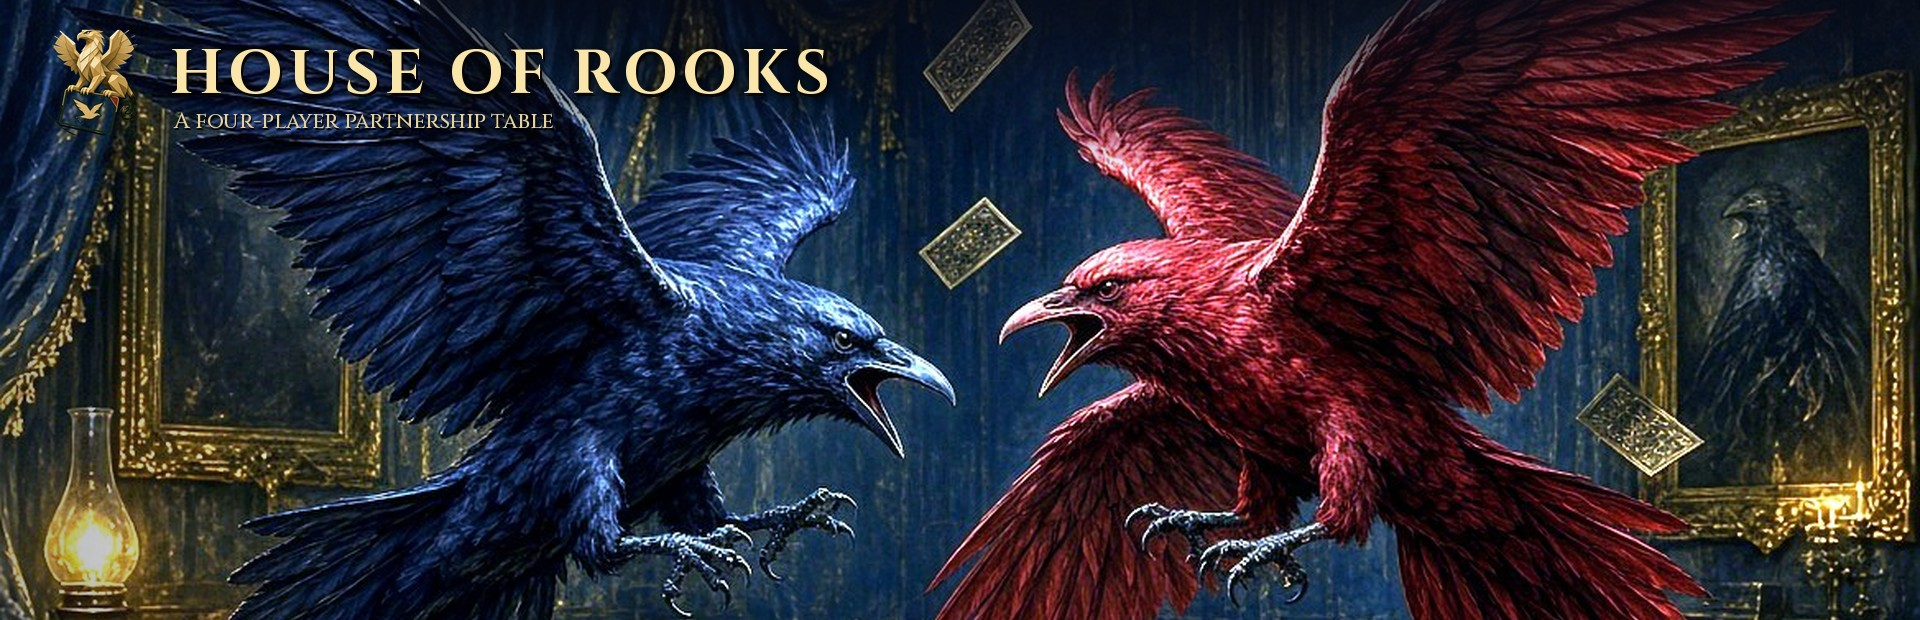
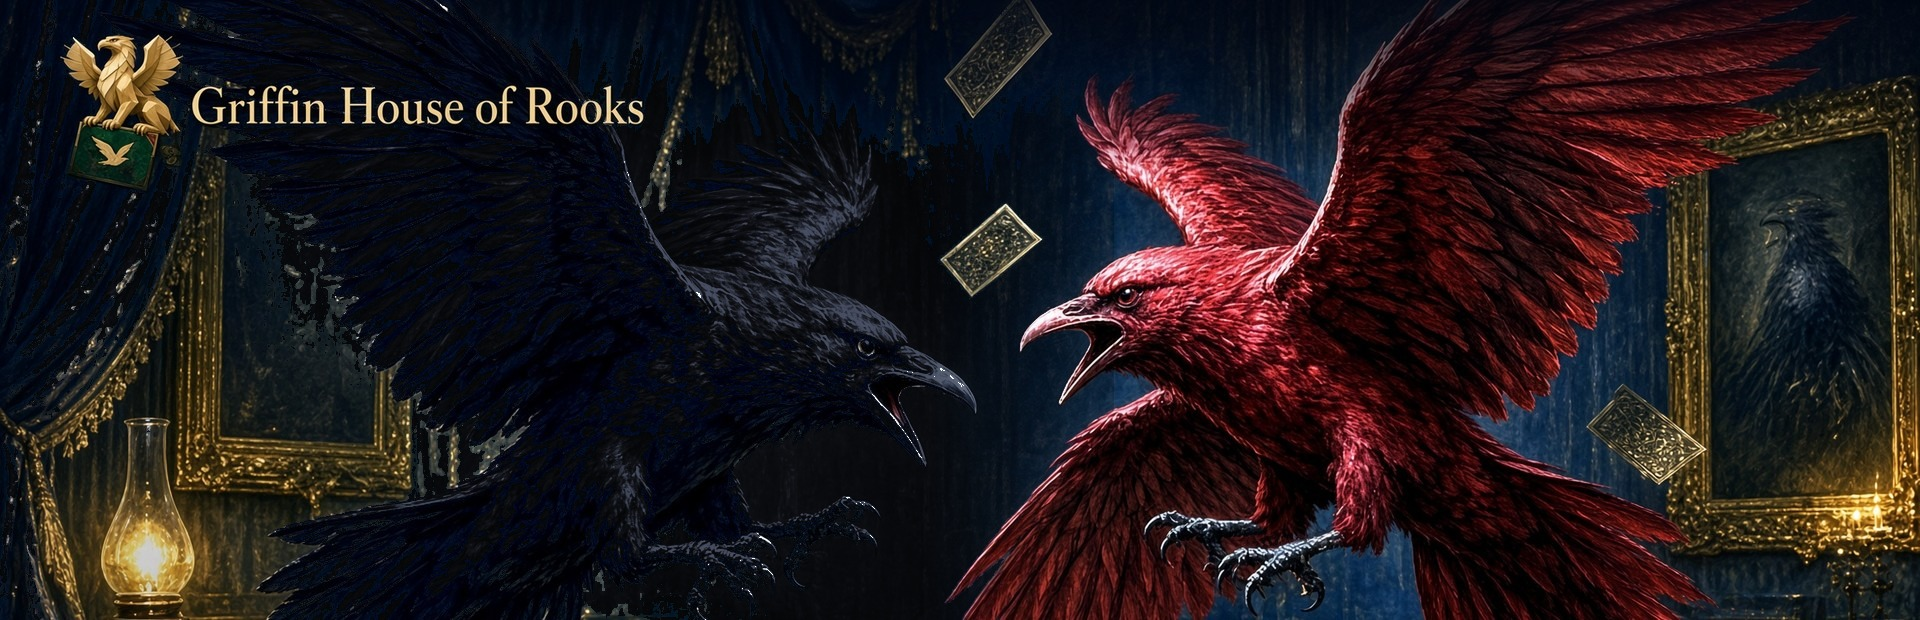
Add files via upload

diff --git a/index.html b/index.html
@@ -13,7 +13,7 @@
   <title>House of Rooks</title>
   <script>
     (function () {
-      var BUILD = '358';
+      var BUILD = '360';
       try {
         var params = new URLSearchParams(location.search);
         var seen = localStorage.getItem('horBuild') || '';
@@ -36,7 +36,7 @@
   <link rel="manifest" href="manifest.json">
   <link rel="icon" href="icon-192.png">
   <link rel="apple-touch-icon" href="apple-touch-icon.png">
-  <link rel="stylesheet" href="style.css?v=358">
+  <link rel="stylesheet" href="style.css?v=360">
   <script src="vendor/peerjs.min.js"></script>
   <style>
     /* Emergency layout if style.css fails to load — joiners still see a usable page */
@@ -165,8 +165,8 @@
           <button id="installAppBtn" class="btn lobby-main" type="button">Install on this phone<span class="lobby-btn-sub">Home screen app — no browser bar</span></button>
         </div>
         <div class="lobby-hero" aria-hidden="true">
-          <img id="lobbyHeroImg" class="lobby-hero-portrait" alt="Red raven and black raven over the griffin table" width="1176" height="784" src="lobby-hero-wide.jpg">
-          <img class="lobby-hero-land" alt="House of Rooks" width="1920" height="620" src="lobby-hero-landscape.jpg">
+          <img id="lobbyHeroImg" class="lobby-hero-portrait" alt="Black rook and red rook in a mid-air fight" width="1400" height="920" src="lobby-hero-wide.jpg">
+          <img class="lobby-hero-land" alt="Griffin House of Rooks" width="1920" height="620" src="lobby-hero-landscape.jpg">
         </div>
         <script>
           (function () {
@@ -1107,10 +1107,10 @@
       paintInstall();
     })();
   </script>
-  <script src="rules.js?v=358"></script>
-  <script src="bots.js?v=358"></script>
-  <script src="game.js?v=358"></script>
-  <script src="polish.js?v=358"></script>
+  <script src="rules.js?v=360"></script>
+  <script src="bots.js?v=360"></script>
+  <script src="game.js?v=360"></script>
+  <script src="polish.js?v=360"></script>
   <div id="horBootError"></div>
   <script>
     window.addEventListener('error', function (ev) {
@@ -1124,7 +1124,7 @@
   </script>
   <script>
     if ('serviceWorker' in navigator) {
-      navigator.serviceWorker.register('sw.js?v=358', { updateViaCache: 'none' })
+      navigator.serviceWorker.register('sw.js?v=360', { updateViaCache: 'none' })
         .then(function (reg) { try { reg.update(); } catch (e) {} })
         .catch(() => {});
       let horSwAutoReloaded = false;

diff --git a/style.css b/style.css
@@ -7845,7 +7845,7 @@ body.remaining-open #ltEndGame {
   height: 100%;
   min-height: 0;
   object-fit: cover;
-  object-position: center 42%;
+  object-position: center center;
   display: block;
 }
 #lobby .join-form #joinConfirmBtn {
@@ -7927,7 +7927,10 @@ body.remaining-open #ltEndGame {
 }
 
 
-#lobby .lobby-hero-land { display: none; }
+/* Must beat `#lobby .lobby-hero img { display:block }` or the wide
+   banner paints on top of the portrait fight and crops "HOUSE OF ROOKS"
+   into stray letters (F ROOKS / ABLE). */
+#lobby .lobby-hero-land { display: none !important; }
 @media (orientation: landscape) {
   #lobby.screen:not(.hidden) .lobby-header { display: none !important; }
   #lobby.screen:not(.hidden) .lobby-hero-portrait { display: none !important; }
@@ -7938,7 +7941,7 @@ body.remaining-open #ltEndGame {
     width: 100%;
     height: 100%;
     object-fit: cover;
-    object-position: center 40%;
+    object-position: center 28%;
   }
   #lobby.screen:not(.hidden) .lobby-hero { order: -1; flex: 0 0 auto; height: 28vh; min-height: 120px; max-height: 200px; }
 }

diff --git a/sw.js b/sw.js
@@ -2,20 +2,20 @@
  * Author: Jerome Griffin
  * Copyright (c) 2026 Jerome Griffin / Griffin House
  */
-const CACHE = 'house-of-rooks-v358';
+const CACHE = 'house-of-rooks-v360';
 const SHELL = [
   './',
   './index.html',
   './rules.js',
-  './rules.js?v=358',
+  './rules.js?v=360',
   './bots.js',
-  './bots.js?v=358',
+  './bots.js?v=360',
   './game.js',
-  './game.js?v=358',
+  './game.js?v=360',
   './polish.js',
-  './polish.js?v=358',
+  './polish.js?v=360',
   './style.css',
-  './style.css?v=358',
+  './style.css?v=360',
   './hor-version.js',
   './splash-battle.png',
   './wait-nest-portrait.jpg',

diff --git a/game.js b/game.js
@@ -7,7 +7,7 @@
 // It's exchanged during the join handshake so a stale host or joiner (e.g.
 // one still running old cached JS) gets caught and auto-updated instead of
 // silently failing or behaving unpredictably against a mismatched peer.
-const APP_VERSION = '358';
+const APP_VERSION = '360';
 
 function horThisIndex() {
   try {

diff --git a/hor-version.js b/hor-version.js
@@ -1,3 +1,3 @@
 /* House of Rooks live version beacon. Loaded cross-origin by downloaded copies. */
-window.HOR_LIVE_VERSION = 358;
-window.HOR_BUILD = 358;
+window.HOR_LIVE_VERSION = 360;
+window.HOR_BUILD = 360;
